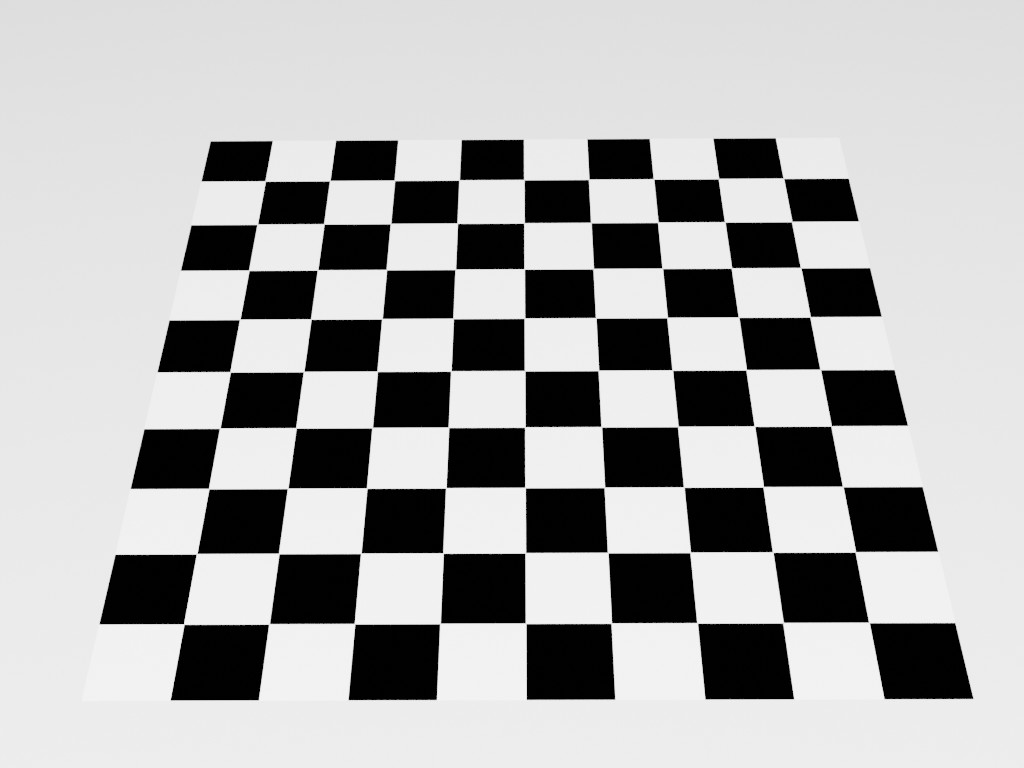
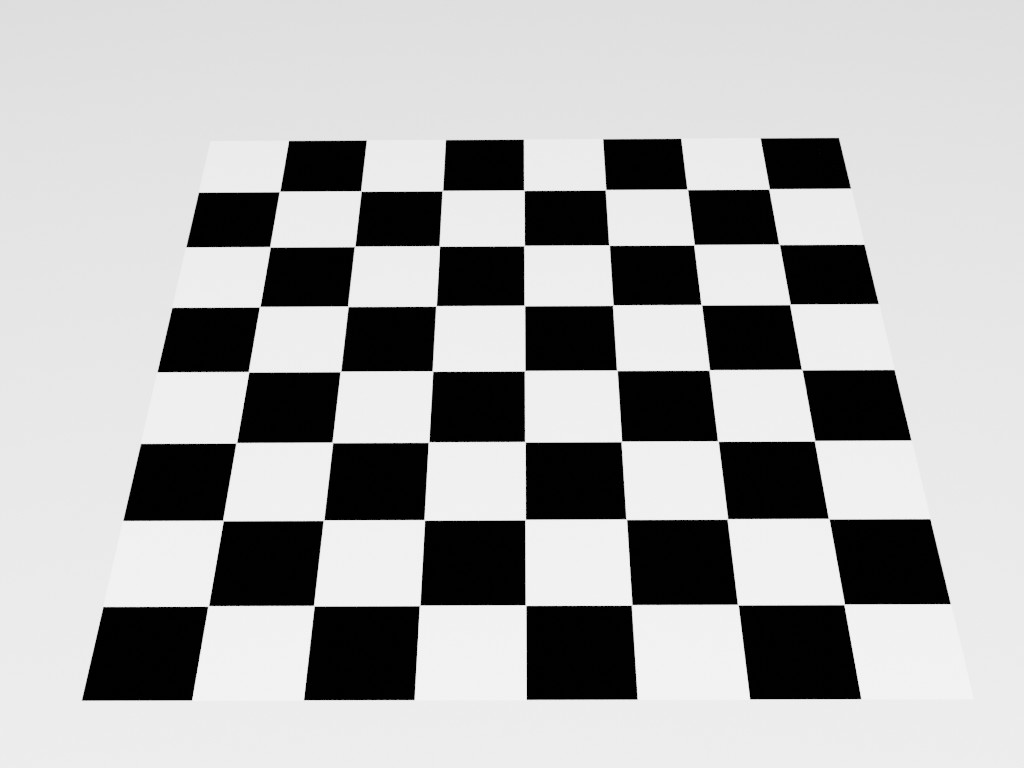
Trying my luck with opencv

Changed region(s): [[0.0625, 0.1562, 0.9688, 0.9375]]

diff --git a/teste00/main.py b/teste00/main.py
@@ -142,20 +142,16 @@ irlCheckerPoints[:, :2] = np.mgrid[0:4, 0:6].T.reshape(-1,2)
 imgPoints_camera = [np.float32([[266, 182], [330, 182], [395, 181], [459, 180], [524, 180], [589, 180], [654, 179],
                    [259, 224], [324, 224], [390, 224], [458, 224], [524, 223], [591, 223], [593, 223],
                    [249, 271], [317, 270], [387, 270], [456, 270], [525, 269], [658, 269], [663, 269]])]
-objPoints_camera = [np.float32([[0,0,0],[0,1,0],[0,2,0],[0,3,0],[0,4,0],[0,5,0],[0,6,0],
-                   [1,0,0],[1,1,0],[1,2,0],[1,3,0],[1,4,0],[1,5,0],[1,6,0],
-                   [2,0,0],[2,1,0],[2,2,0],[2,3,0],[2,4,0],[2,5,0],[2,6,0]])]
-#contours, hierarchy = cv.findContours(camcalib[0], cv.RETR_LIST, cv.CHAIN_APPROX_SIMPLE)
-#cv.cornerSubPix(camcalib[0], contours, (camcalib[0].shape[1], camcalib[0].shape[0]), (-1, -1), cv.TermCriteria_MAX_ITER)
-#plt.imshow(cv.drawContours(camcalib[0], contours, -1, (255, 255, 255), 8, cv.FILLED, hierarchy))
-#plt.show()
+objPoints_camera = [np.float32([[0,0,0],[0,10,0],[0,20,0],[0,30,0],[0,40,0],[0,50,0],[0,60,0],
+                   [10,0,0],[10,10,0],[10,20,0],[10,30,0],[10,40,0],[10,50,0],[10,60,0],
+                   [20,0,0],[20,10,0],[20,20,0],[20,30,0],[20,40,0],[20,50,0],[20,60,0]])]
 
-ret, cameraMatrix, distortionCoefficients, rotationVectors, transformVectors = cv.calibrateCamera(objPoints_camera, imgPoints_camera, camcalib[0].shape, None, None, None, None)
+ret, cameraMatrix, distortionCoefficients, rotationVectors, transformVectors = cv.calibrateCamera(objPoints_camera, imgPoints_camera, camcalib[0].shape, None, None, None, None, flags=cv.CALIB_RATIONAL_MODEL  )
 
 
 # UNDISTORTION
 # I'M FOLLOWING A TUTORIAL AND WANTING TO SEE WHERE IT LEADS
-optCamera, roi = cv.getOptimalNewCameraMatrix(cameraMatrix, distortionCoefficients, (camcalib[0].shape[1],camcalib[0].shape[0]), 1, (camcalib[0].shape[1],camcalib[0].shape[0]))
+optCamera, roi = cv.getOptimalNewCameraMatrix(cameraMatrix, distortionCoefficients, (camcalib[0].shape), 1, (camcalib[0].shape))
 x, y, w, h = roi
 
 print(roi)
@@ -167,7 +163,7 @@ for i, img in enumerate(imgs):
 calibratedImgs = np.array(calibImgs)
 dst = raw[y:y+h, x:x+w]
 cv.imwrite("rawCalibratedImage.png", raw)
-#cv.imwrite("calibratedImage.png", dst)
+cv.imwrite("calibratedImage.png", dst)
 
 # REPROJECTION IN ORDER TO BE SURE THIS CALIBRATION IS WORKING
 meanError = 0
@@ -188,10 +184,10 @@ imgPoints = [np.float32([[499, 81],[534, 36],
             [168, 40],[168, 69],
             [489, 930],[515, 971],
             [163, 865],[163, 892]])]
-objPoints = [np.float32([[470.448, 241.187, 70.0],[397.034, 231.625, 0.0],
-            [752.245, 307.869, 70.0],[667.416, 295.374, 0.0],
-            [479.73, -220.556, 70.0],[406.089, -211.845, 0.0],
-            [753.028, -229.608, 70.0], [667.474, -220.295, 0.0]])]
+objPoints = [np.float32([[470.448 - 397.034, 241.187 + 229.608, 70.0],[397.034 - 397.034, 231.625 + 229.608, 0.0],
+            [752.245 - 397.034, 307.869 + 229.608, 70.0],[667.416 - 397.034, 295.374 + 229.608, 0.0],
+            [479.73 - 397.034, -220.556 + 229.608, 70.0],[406.089 - 397.034, -211.845 + 229.608, 0.0],
+            [753.028 - 397.034, -229.608 + 229.608, 70.0], [667.474 - 397.034, -220.295 + 229.608, 0.0]])]
 
 # SHADOW MAPPING
 

diff --git a/teste00/dlt.py b/teste00/dlt.py
@@ -1,3 +1,4 @@
+import scipy as sc
 import cv2 as cv
 import numpy as np
 import matplotlib.pyplot as plt
